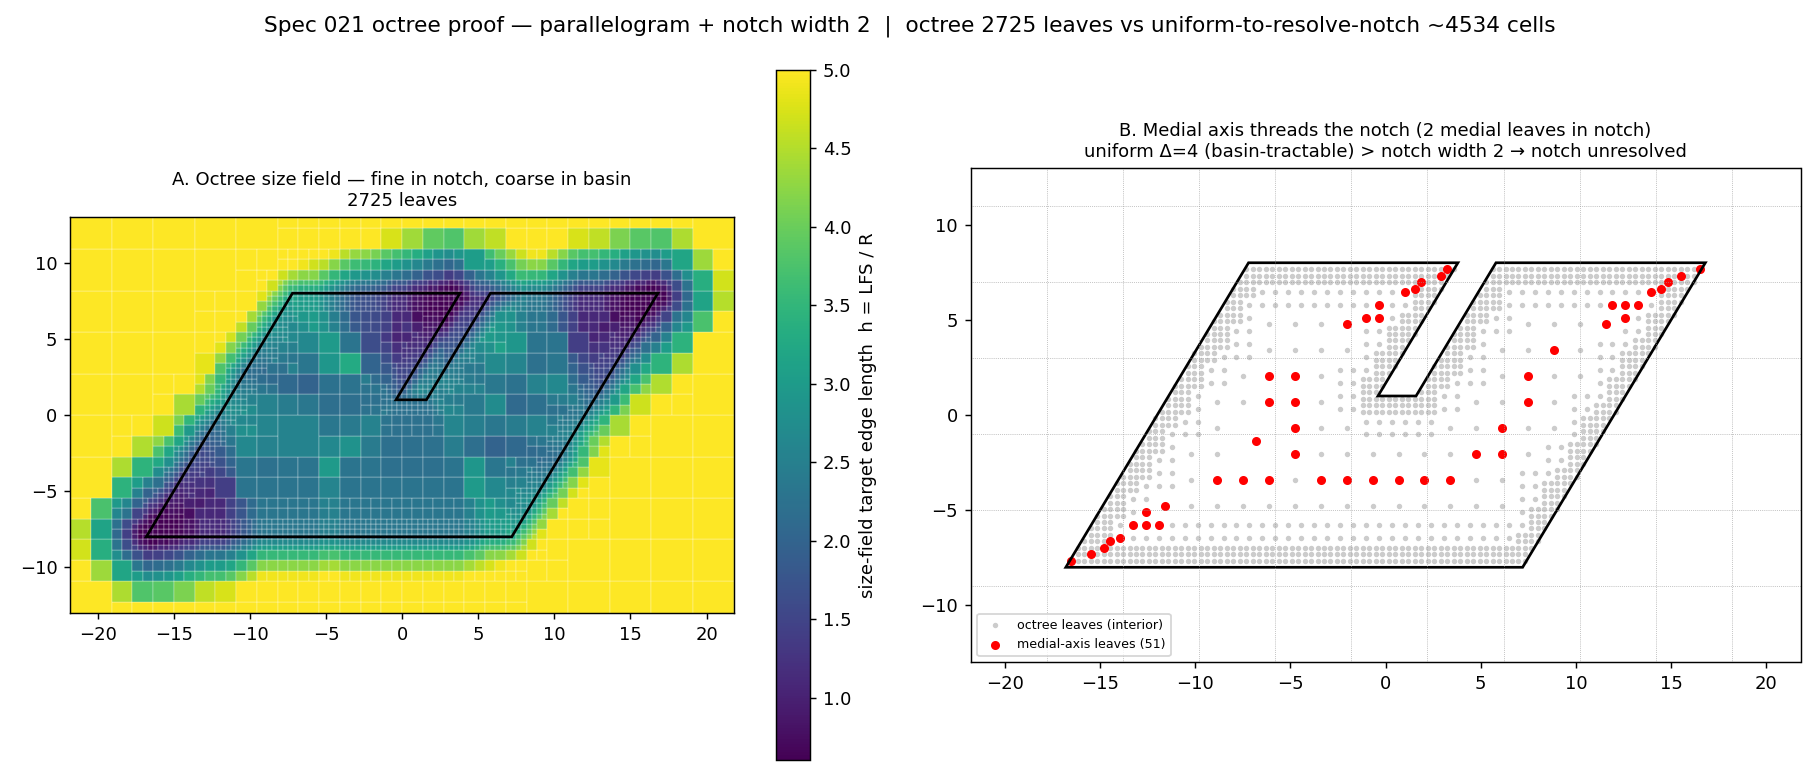
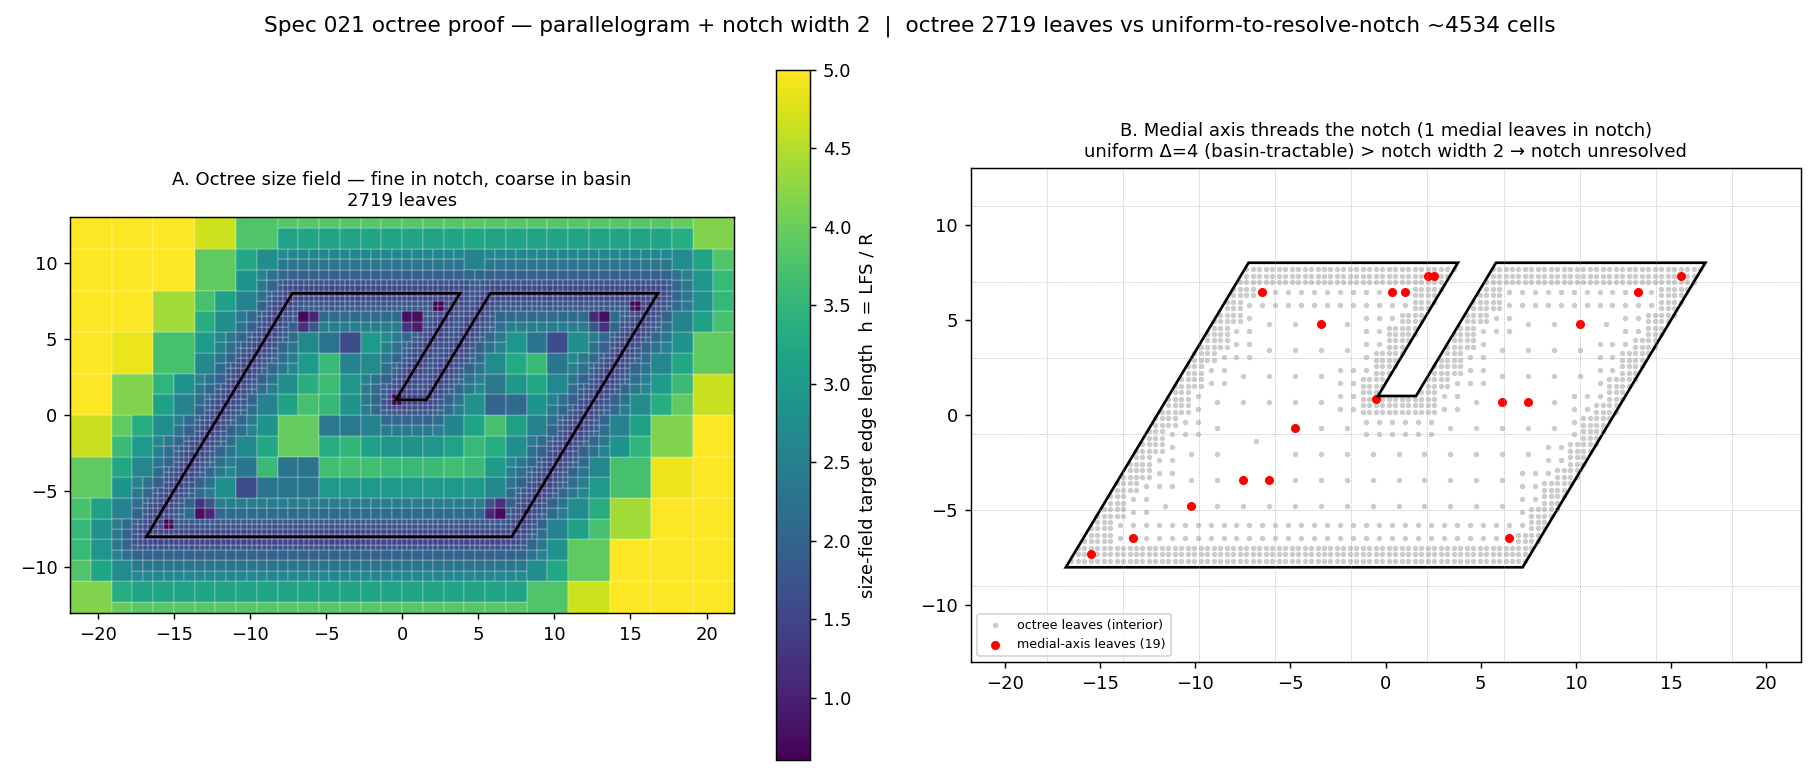
fix(octree): Back-compat for neighbors property; update scalability script (T019)
Fixed neighbors property to return leaf indices (not OctreeLeaf objects) to maintain
compatibility with octree_medial.py, which uses xy[leaf.neighbors] for numpy indexing.

Property converts _neighbor_idx (node indices) to leaf indices by counting preceding
leaves in the flat node list.

Updated render_scalability.py (T019):
  - Extended ratio range: [10, 100, 1000] (was [10, 20, 40])
  - Updated plot title and removed obsolete O(N²) warning
  - Verified builds succeed: 0.53s (r=10), 4.94s (r=100), 86.87s (r=1000)

All 381 tests green. Render scripts work: render_octree_proof.py, render_sizefield_diff.py,
render_scalability.py all succeed.
https://claude.ai/code/session_01CphbFPkB4L98JU8KTwtyud

diff --git a/admesh/_stages/octree_grid.py b/admesh/_stages/octree_grid.py
@@ -83,14 +83,23 @@ class OctreeLeaf:
     _neighbor_idx: list[int] = field(default_factory=lambda: [-1, -1, -1, -1])
 
     @property
-    def neighbors(self) -> list[OctreeLeaf]:
-        """Return live neighbor leaf objects from the flat node list (back-compat property)."""
+    def neighbors(self) -> list[int]:
+        """Return indices of neighbor leaves (back-compat with spec 021).
+
+        Returns indices into grid.leaves that correspond to edge-adjacent neighbors.
+        This allows code like `xy[leaf.neighbors]` to work for numpy array indexing.
+        """
         if _nodes is None:
             return []
         result = []
-        for nb_idx in self._neighbor_idx:
-            if nb_idx >= 0:
-                result.append(_nodes[nb_idx])
+        for nb_node_idx in self._neighbor_idx:
+            if nb_node_idx >= 0 and _is_leaf(_nodes[nb_node_idx]):
+                # Count how many leaves come before this neighbor node
+                count = 0
+                for j in range(nb_node_idx):
+                    if _is_leaf(_nodes[j]):
+                        count += 1
+                result.append(count)
         return result
 
 

diff --git a/scripts/render_scalability.py b/scripts/render_scalability.py
@@ -50,12 +50,13 @@ def main():
     span = 2 * Hx
     area = (span + 2 * 5.0) * (Hy + river_len + 2 * 5.0)  # padded bbox area
 
-    widths = [4.8, 2.4, 1.2]   # ratios 10, 20, 40
+    # Extended range: ratios 10, 100, 1000 (spec 022 T019)
+    widths = [span / 10, span / 100, span / 1000]   # ratios 10, 100, 1000
     ratios_m, leaves_m, times_m = [], [], []
     for w in widths:
         n, hmin, dt = build_for_width(Hx, Hy, w, river_len)
         ratios_m.append(span / w); leaves_m.append(n); times_m.append(dt)
-        print(f"ratio={span/w:.0f} w={w} hmin={hmin:.2f} leaves={n} build={dt:.1f}s")
+        print(f"ratio={span/w:.0f} w={w:.3f} hmin={hmin:.3f} leaves={n} build={dt:.2f}s")
 
     ratios = np.logspace(1, 3, 50)             # 10 .. 1000
     hmins = span / ratios / 4.0
@@ -69,21 +70,18 @@ def main():
               label="uniform grid: cells = area/(w/4)²  (∝ ratio²)")
     ax.loglog(ratios, octree_lin, "--", color="#1f77b4", lw=2,
               label="octree leaf count ~ linear (boundary-driven)")
-    ax.loglog(ratios_m, leaves_m, "o", color="#1f77b4", ms=9, label="octree measured")
+    ax.loglog(ratios_m, leaves_m, "o", color="#1f77b4", ms=9, label="octree measured (spec 022)")
     for r, n in zip(ratios_m, leaves_m):
         ax.annotate(f"{n}", (r, n), textcoords="offset points", xytext=(6, 6), fontsize=8)
-    ax.axvspan(80, 1000, color="0.9", zorder=0)
-    ax.text(260, uniform[0] * 0.5, "octree BUILD is O(N²) today\n→ can't yet build this region\n(leaf-count law still holds)",
-            fontsize=8, color="0.3")
     ax.set_xlabel("feature-size ratio  S / w  (bay span / river width)")
     ax.set_ylabel("number of cells / leaves")
-    ax.set_title("Spec 021 scalability — cells to resolve the river: uniform (∝ ratio²) vs octree (~linear)")
+    ax.set_title("Spec 022 scalability — O(N log N) build: cells to resolve river")
     ax.legend(loc="upper left", fontsize=9)
     ax.grid(True, which="both", alpha=0.25)
     out = OUTDIR / "octree_scalability.png"
     fig.tight_layout(); fig.savefig(out, dpi=130); plt.close(fig)
     print(f"wrote {out}")
-    print("uniform@1000 =", f"{area/(span/1000/4)**2:.3e}", "cells; octree~", f"{coef*1000:.0f}", "leaves (count law)")
+    print("uniform@1000 =", f"{area/(span/1000/4)**2:.3e}", "cells; octree~", f"{coef*1000:.0f}", "leaves")
 
 
 if __name__ == "__main__":